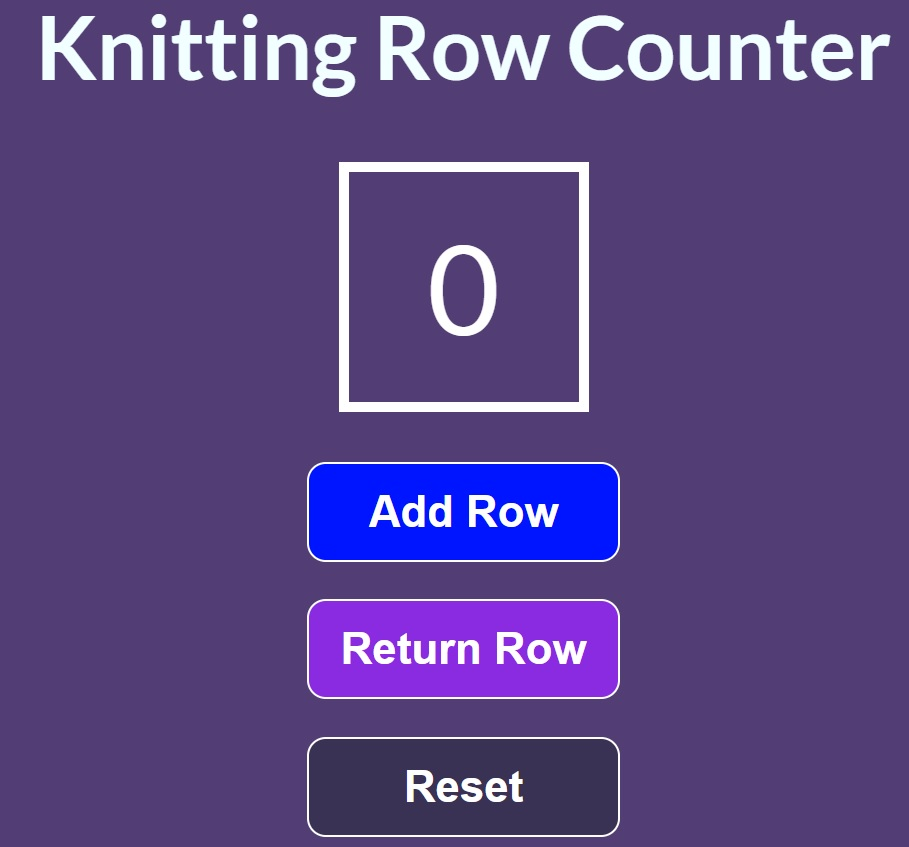
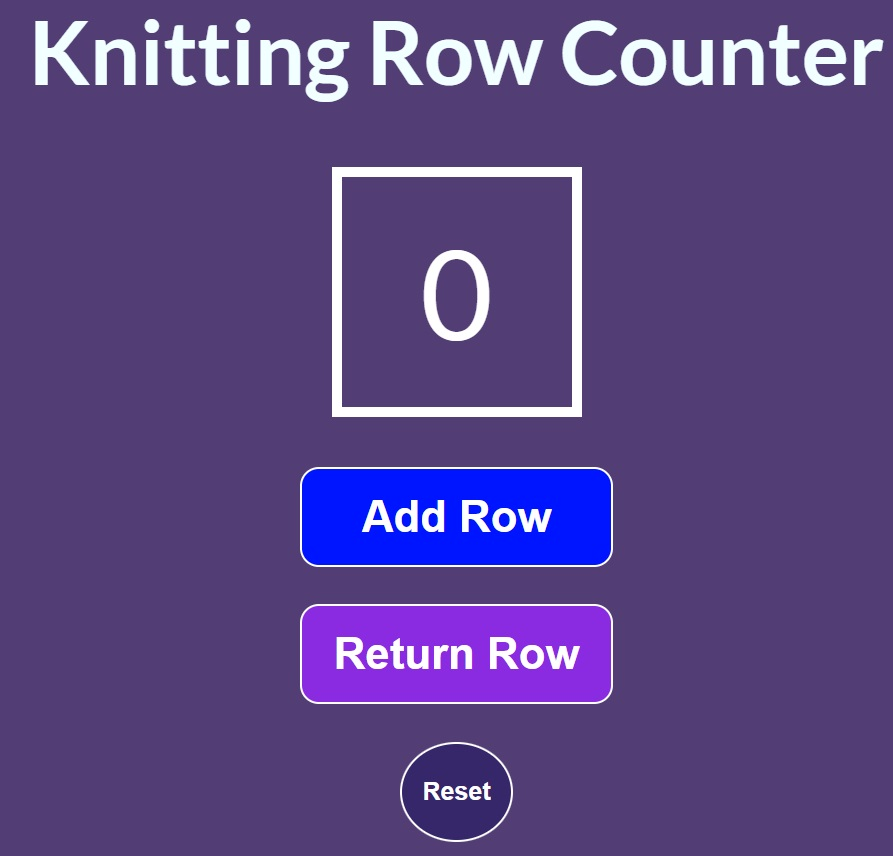
Se actualizan las imagenes

diff --git a/src/styles/Button.css b/src/styles/Button.css
@@ -24,7 +24,7 @@ button:hover {
 }
 
 .reset {
-  background-color: rgb(120, 84, 240);
+  background-color: rgb(54, 39, 107);
   font-size: 20px;
   width: 90px;
   border-radius: 80%;
